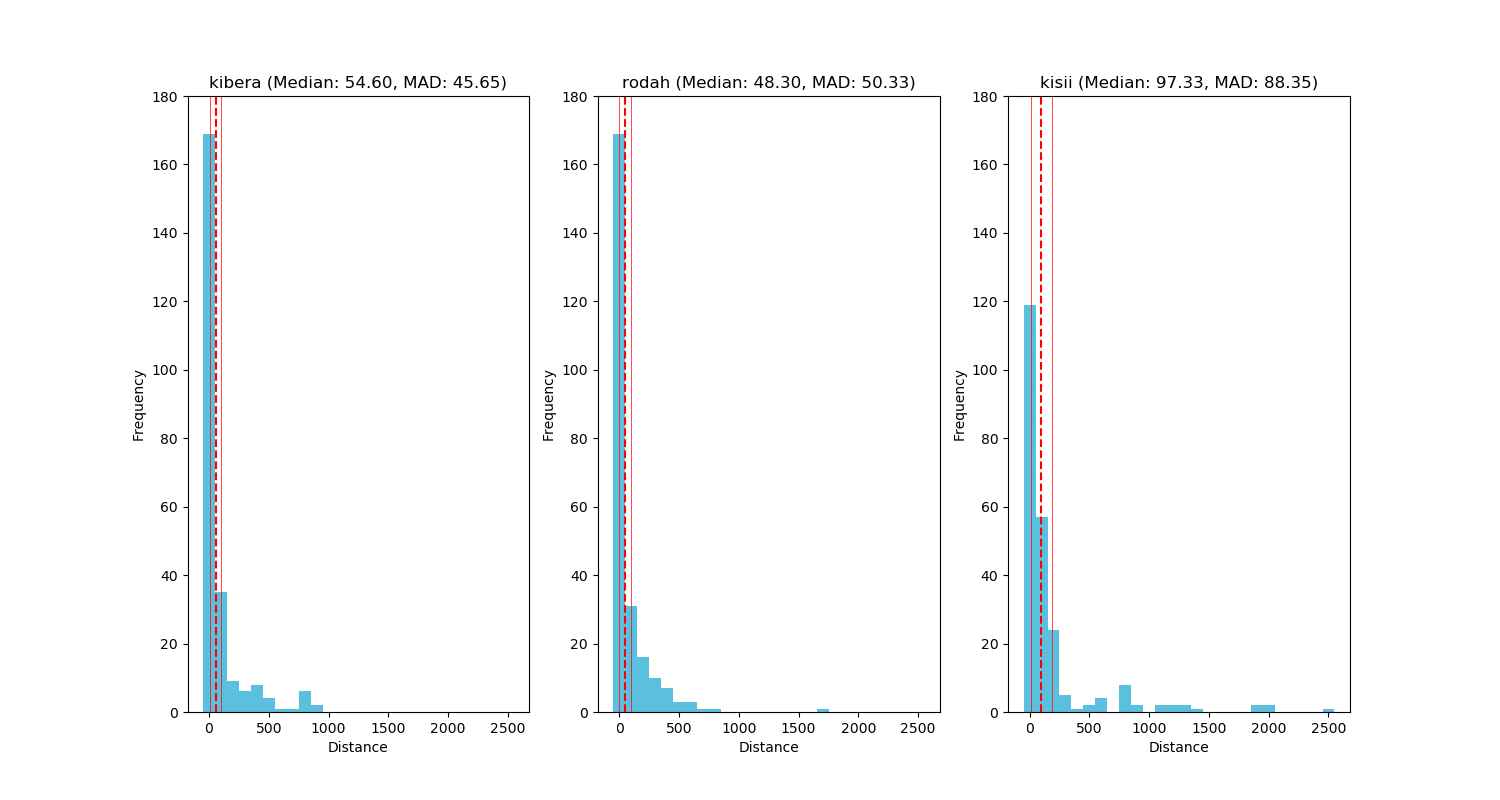
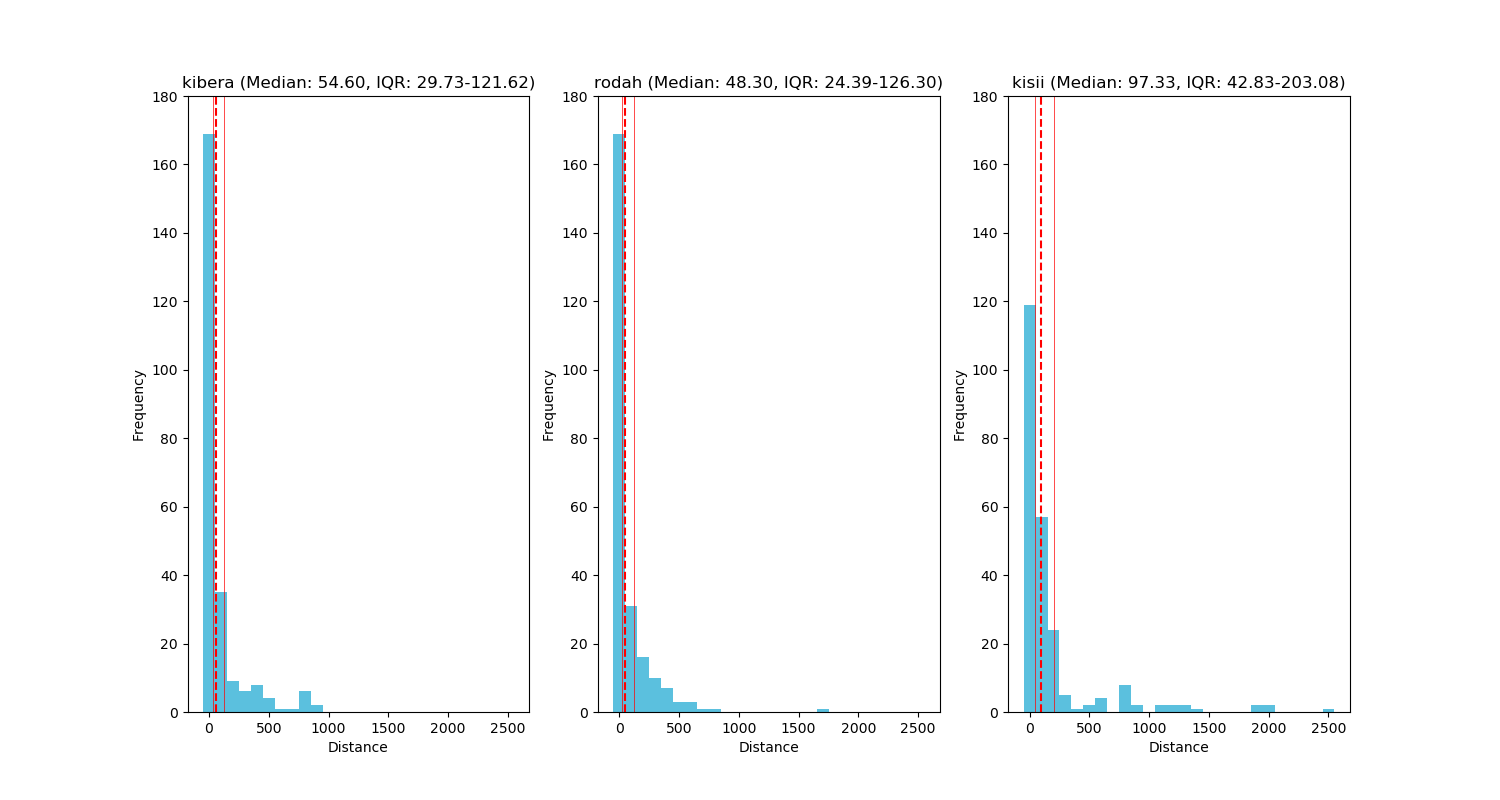
Make better use of pandas in analysis

Changed region(s): [[0.3987, 0.0938, 0.644, 0.125], [0.1227, 0.0938, 0.368, 0.125], [0.6747, 0.0938, 0.8893, 0.125]]

diff --git a/distance-distribution.py b/distance-distribution.py
@@ -1,9 +1,16 @@
+"""
+* Analayse the distance between 'actual' sample locations and the 'target' locations
+*
+* @author: jonnyhuck
+"""
+
 from re import split
 from pyproj import Geod
 import matplotlib.pyplot as plt
 from numpy import median, percentile
 from pandas import read_csv, value_counts
-from scipy.stats import median_absolute_deviation as mad
+from geopandas import GeoDataFrame, points_from_xy
+
 
 def distance(x1, y1, x2, y2):
     """
@@ -63,28 +70,37 @@ for s in ['kibera', 'rodah', 'kisii']:
     samples = samples.merge(datasets[s]['data'], how='left', left_on='survey-id', right_on='id')
 
     # get distances from sample points to actual sample locations
-    distances = samples[["longitude", "latitude", "_Geo-Location_longitude", "_Geo-Location_latitude"]].apply(lambda x: distance(x['longitude'], x['latitude'], x["_Geo-Location_longitude"], x["_Geo-Location_latitude"]), axis = 1).to_numpy()
-    print(f"{s}: n:{len(distances)}, \tmedian:{median(distances):.2f}, \tmad:{mad(distances):.2f}, \tmin:{min(distances):.2f}, \tmax:{max(distances):.2f}")
+    samples['distance'] = samples[["longitude", "latitude", "_Geo-Location_longitude", "_Geo-Location_latitude"]].apply(lambda x: distance(x['longitude'], x['latitude'], x["_Geo-Location_longitude"], x["_Geo-Location_latitude"]), axis = 1)
+
+    # get descriptive stats
+    d_median = samples['distance'].median()
+    d_mad = samples['distance'].mad()
+    d_iq25 = percentile(samples['distance'], 25)
+    d_iq75 = percentile(samples['distance'], 75)
+    print(f"{s}: n:{len(samples['distance'].index)}, \tmedian:{d_median:.2f}, \tmad:{d_mad:.2f}, \tmin:{samples['distance'].min():.2f}, \tmax:{samples['distance'].max():.2f}")
 
     # plot histogram
     plt.subplot(plot_n)
-    plt.hist(distances, bins=range(0, 2700, 100), align='left', color="#5bc0de")
-    plt.axvline(median(distances), color='red', linestyle='dashed', linewidth=1.5)
-    plt.axvline(median(distances) + mad(distances), color='red', linewidth=0.5)
-    plt.axvline(median(distances) - mad(distances), color='red', linewidth=0.5)
-    # plt.axvline(percentile(distances, 25), color='blue', linewidth=0.5)
-    # plt.axvline(percentile(distances, 75), color='blue', linewidth=0.5)
+    plt.hist(samples['distance'], bins=range(0, 2700, 100), align='left', color="#5bc0de")
+    plt.axvline(d_median, color='red', linestyle='dashed', linewidth=1.5)
+    plt.axvline(d_iq25, color='red', linewidth=0.5)
+    plt.axvline(d_iq75, color='red', linewidth=0.5)
     plt.xlabel('Distance')
     plt.ylabel('Frequency')
     plt.ylim([0, 180])
-    plt.title(f'{s} (Median: {median(distances):.2f}, MAD: {mad(distances):.2f})')
+    plt.title(f'{s} (Median: {d_median:.2f}, IQR: {d_iq25:.2f}-{d_iq75:.2f})')
 
     # increment counter for which plot to draw to
     plot_n += 1
 
     # output a csv file for mapping
-    samples['distance'] = distances
-    samples.to_csv(f"./out/{s}.csv", index=False, columns=['survey-id', "_Geo-Location_longitude", "_Geo-Location_latitude", 'distance'])
+    # samples.to_csv(f"./out/{s}.csv", index=False, columns=['survey-id', "_Geo-Location_longitude", "_Geo-Location_latitude", 'distance'])
+
+    # convert to geodataframe
+    gdf = GeoDataFrame(samples, geometry=points_from_xy(samples['_Geo-Location_longitude'], samples['_Geo-Location_longitude']), crs="EPSG:4326")
+
+    # write to file
+    gdf.to_file(f"./out/shapefiles/{s}.shp")
 
 plt.savefig(f"./out/distances.png")
 print()
